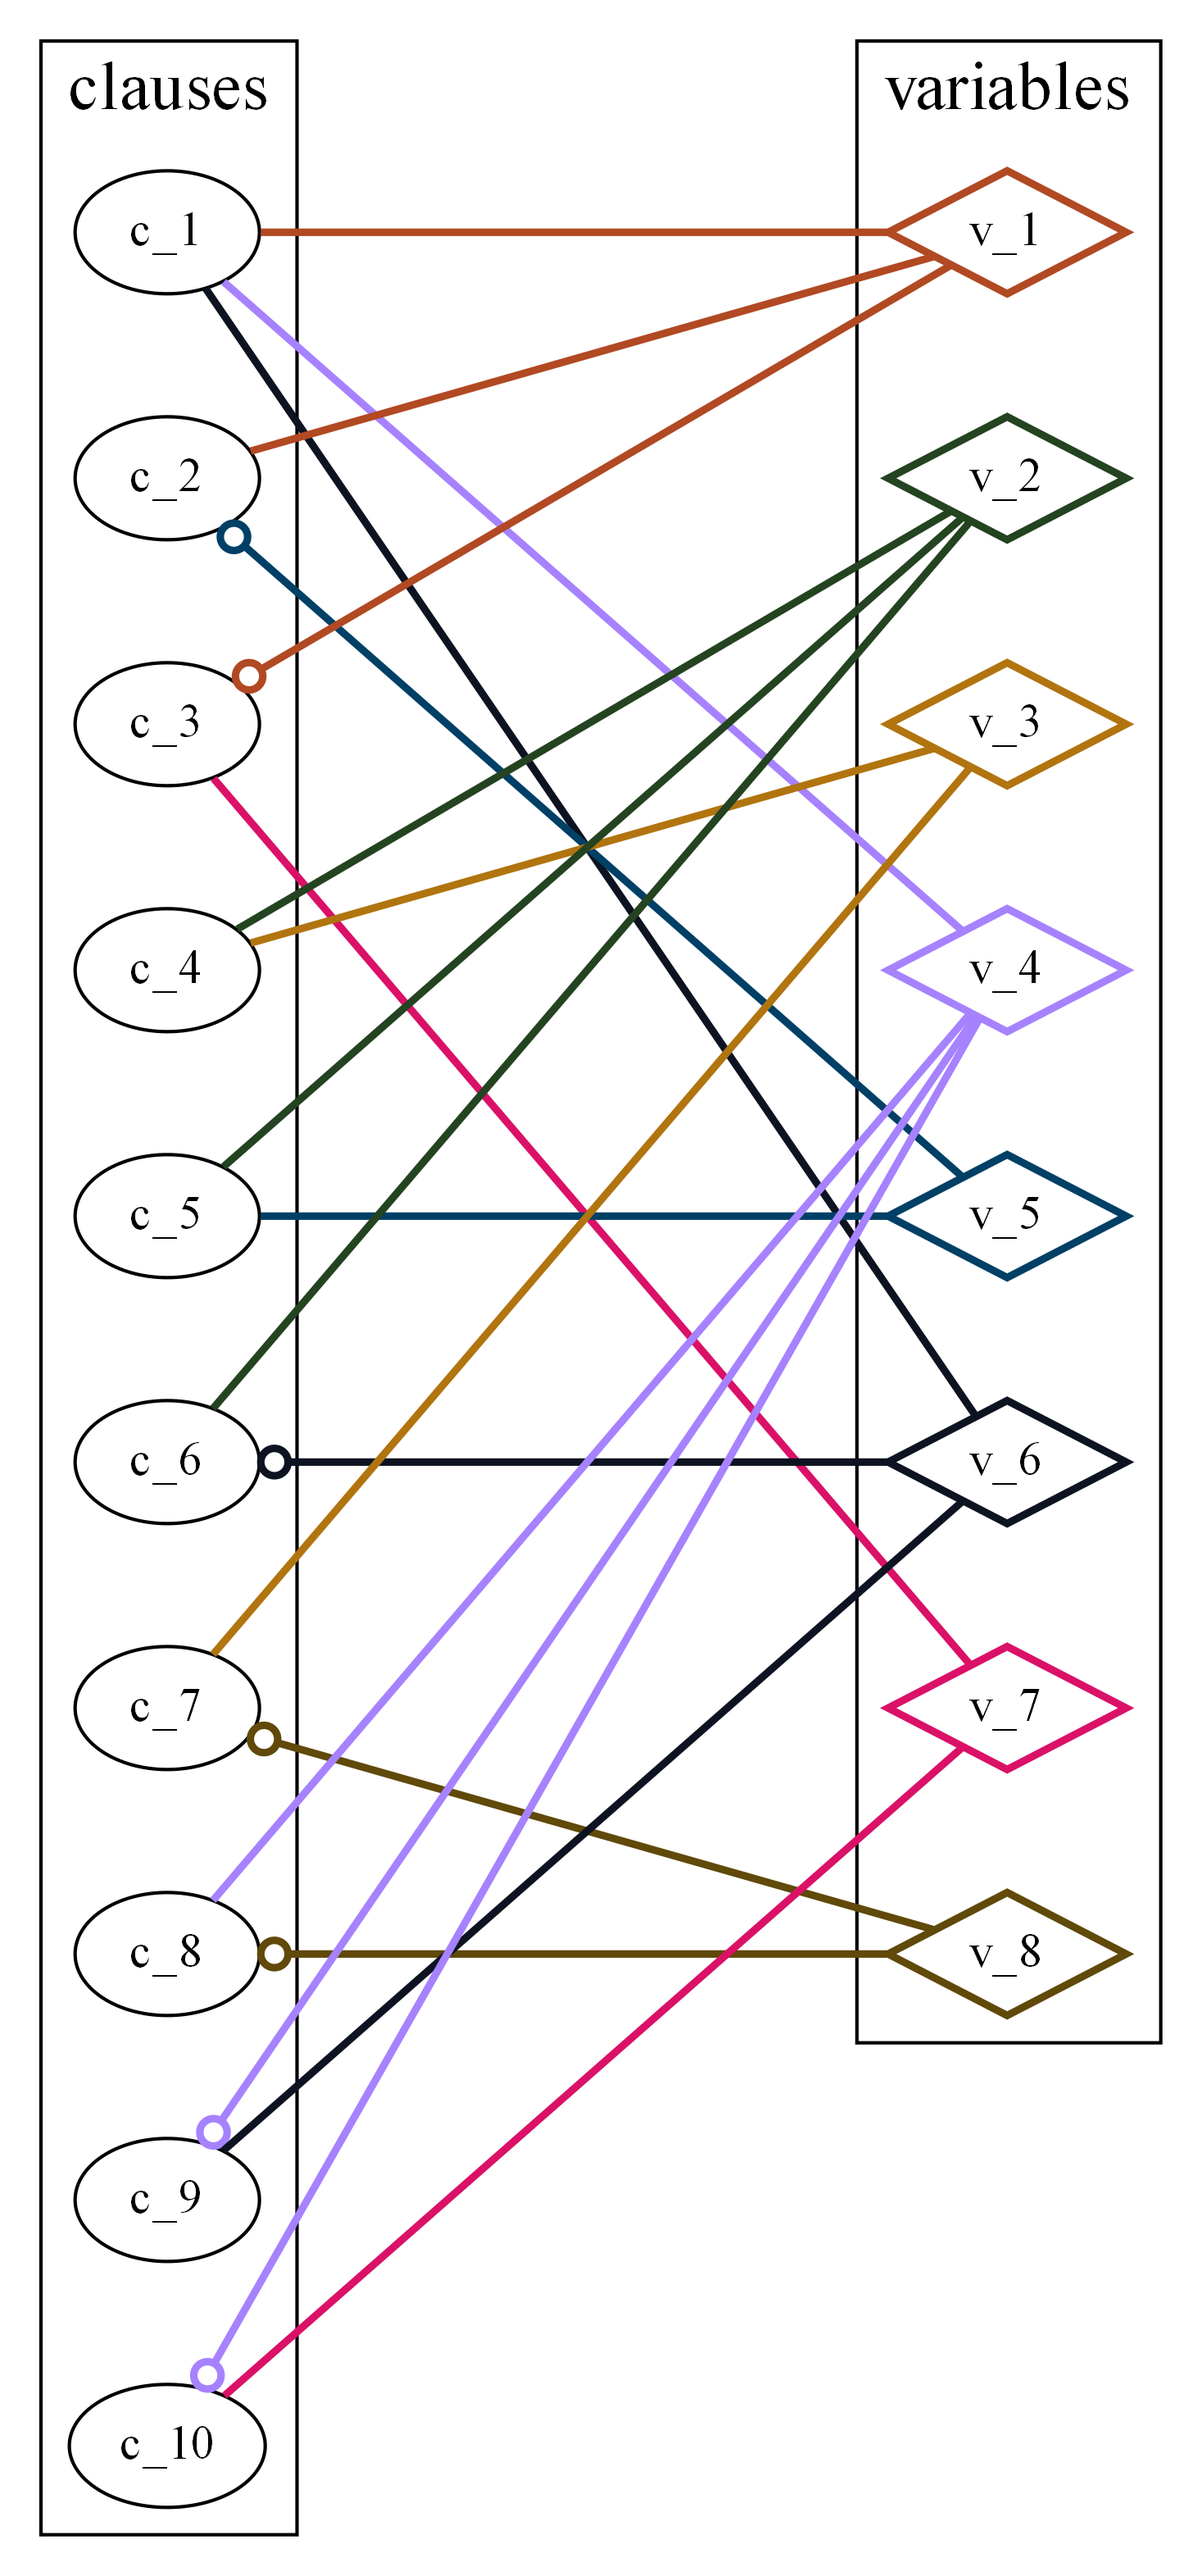
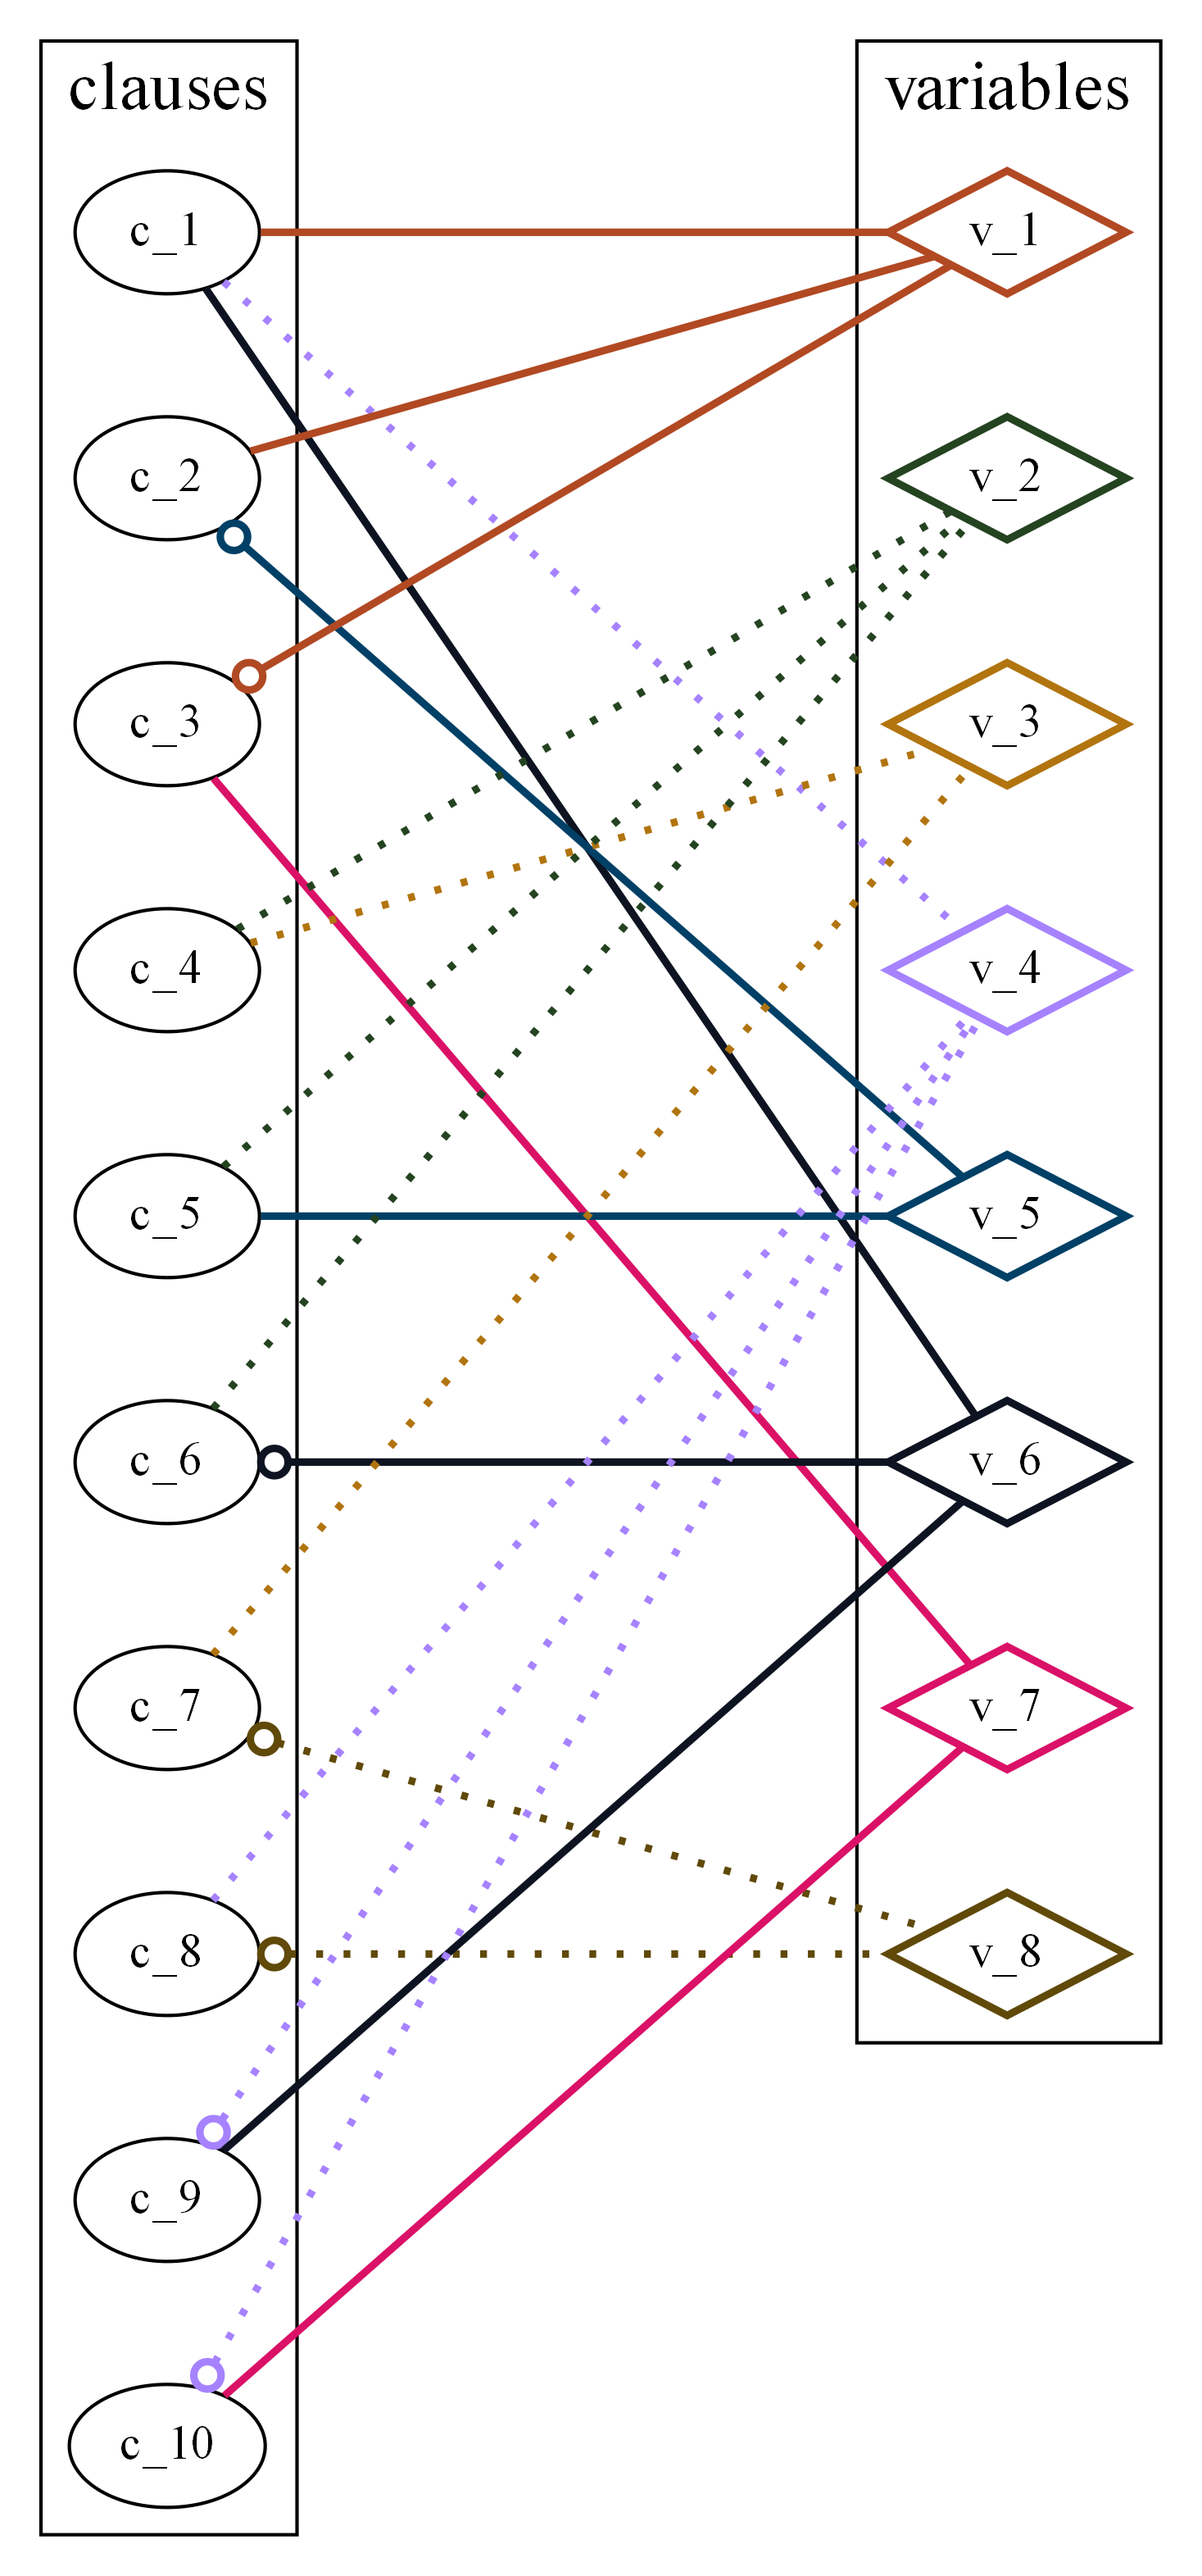
Basic Incidence Visualisation
Changing appearence based on if a variable/edge/clause is neede for the current calculation or not.
TODO: Remove lines from previous change in graph.body

diff --git a/satvisualization_repo/satvisu/graphvizSatVisu.py b/satvisualization_repo/satvisu/graphvizSatVisu.py
@@ -300,12 +300,12 @@ def incidence():
     clausetag = "c_%d"
     vartag = "v_%d"
 
-    k = ["#0073a1", "#b14923", "#244320", "#b1740f", "#a682ff", '#004066',
-         '#0d1321', '#da1167', '#604909', '#0073a1', '#b14923', '#244320',
-         '#b1740f', '#a682ff']
+    colors = ["#0073a1", "#b14923", "#244320", "#b1740f", "#a682ff", '#004066',
+              '#0d1321', '#da1167', '#604909', '#0073a1', '#b14923', '#244320',
+              '#b1740f', '#a682ff']
 
-    g_incid = Graph(graph_attr={'splines': 'false', 'dpi': '300',
-                                'nodesep': '0.5', 'fontsize': '20'},  # ortho
+    g_incid = Graph(strict=True, graph_attr={'splines': 'false', 'dpi': '300',
+                                             'nodesep': '0.5', 'fontsize': '20'},  # ortho
                     edge_attr={'penwidth': '2.2', 'dir': 'back', 'arrowtail': 'none'})
 
     with g_incid.subgraph(name='cluster_clause', edge_attr={'style': 'invis'},
@@ -314,7 +314,12 @@ def incidence():
         clauses.edges([(clausetag % (i + 1), clausetag % (i + 2))
                        for i in range(r_clause - 1)])
 
-    g_incid.attr('node', shape='diamond', fontcolor='black', penwidth='2.2')
+    g_incid.attr(
+        'node',
+        shape='diamond',
+        fontcolor='black',
+        penwidth='2.2',
+        style='dotted')
     with g_incid.subgraph(name='cluster_ivar', edge_attr={'style': 'invis'}) as ivars:
         ivars.attr(label='variables')
         ivars.edges([(vartag % (i + 1), vartag % (i + 2))
@@ -322,30 +327,81 @@ def incidence():
         for i in range(r_vars):
             g_incid.node(vartag %
                          (i + 1), vartag %
-                         (i + 1), color=k[(i + 1) %
-                                          len(k)])
+                         (i + 1), color=colors[(i + 1) %
+                                               len(colors)])
 
     g_incid.attr('edge', constraint="false")
     EDGELIST = [[1, [1, 4, 6]], [2, [1, -5]], [3, [-1, 7]], [4, [2, 3]], [5, [2, 5]],
                 [6, [2, -6]], [7, [3, -8]], [8, [4, -8]], [9, [-4, 6]], [10, [-4, 7]]]
+    # (1,) for clause (2,) for variable
+
     for clause in EDGELIST:
         for var in clause[1]:
             if var >= 0:
                 g_incid.edge(clausetag % clause[0],
                              vartag % var,
-                             color=k[var % len(k)])
+                             color=colors[var % len(colors)])
             else:
                 g_incid.edge(clausetag % clause[0],
                              vartag % -var,
-                             color=k[-var % len(k)],
+                             color=colors[-var % len(colors)],
                              arrowtail='odot',
                              # style='dotted'
                              )
             # color=sns.xkcd_rgb[k[(var * 100) % len(k)]]) # yellow
 
-    g_incid.render(view=True, format='png', filename='incidenceGraph')
+    # timeline for incidence emphasis
+    TIMELINE = [(2, 3, 8), (2, 4, 8)]
+
+    # make edgelist variable-based (varX, clauseY), ...
+    import itertools
+
+    tr = list(
+        map(lambda y: list(map(lambda x: (x, y[0]), y[1])), EDGELIST))
+
+    var_cl_list = list(itertools.chain.from_iterable(tr))  # flatten
+    print('var_cl_list', var_cl_list)
+
+    for i, variables in enumerate(TIMELINE):    # all timesteps
+
+        emp_clause = [a[1] for a in list(filter(lambda var_cl:
+                                                abs(var_cl[0]) in variables,
+                                                var_cl_list))]
+        # print(edges)
+
+        for edge in var_cl_list:
+            (var, clause) = edge
+            _style = 'solid' if clause in emp_clause else 'dotted'
+            _vartag = vartag % abs(var)
+            if i > 0 and (abs(var) not in variables) and (
+                    abs(var) in TIMELINE[i - 1]):
+                g_incid.node(_vartag, _vartag, style='dotted')
+            if abs(var) in variables:
+                g_incid.node(_vartag, _vartag, style='solid')
+
+            if var >= 0:
+
+                g_incid.edge(clausetag % clause,
+                             _vartag,
+                             color=colors[var % len(colors)],
+                             style=_style)
+            else:
+                g_incid.edge(clausetag % clause,
+                             _vartag,
+                             color=colors[-var % len(colors)],
+                             arrowtail='odot',
+                             style=_style
+                             )
+        # print(g_incid.body)
+        # body – Iterable of verbatim lines to add to the graph body.
+
+        g_incid.render(
+            view=True,
+            format='png',
+            filename='incidenceGraph%d' %
+            i)
 
 
 if __name__ == "__main__":
-    main()                                      # Call Mainroutine
+    # main()                                      # Call Mainroutine
     incidence()

diff --git a/satvisualization_repo/satvisu/mpl_test.py b/satvisualization_repo/satvisu/mpl_test.py
@@ -19,6 +19,6 @@ if __name__ == "__main__":
         elem.axes.get_yaxis().set_visible(False)
     print(fig.get_size_inches())
     ax1.imshow(img)
-    ax2.imshow(mpimg.imread("g41Digraph.png"))
+    ax2.imshow(mpimg.imread("g41DigraphProgress8.png"))
 
     plt.savefig("combined")
